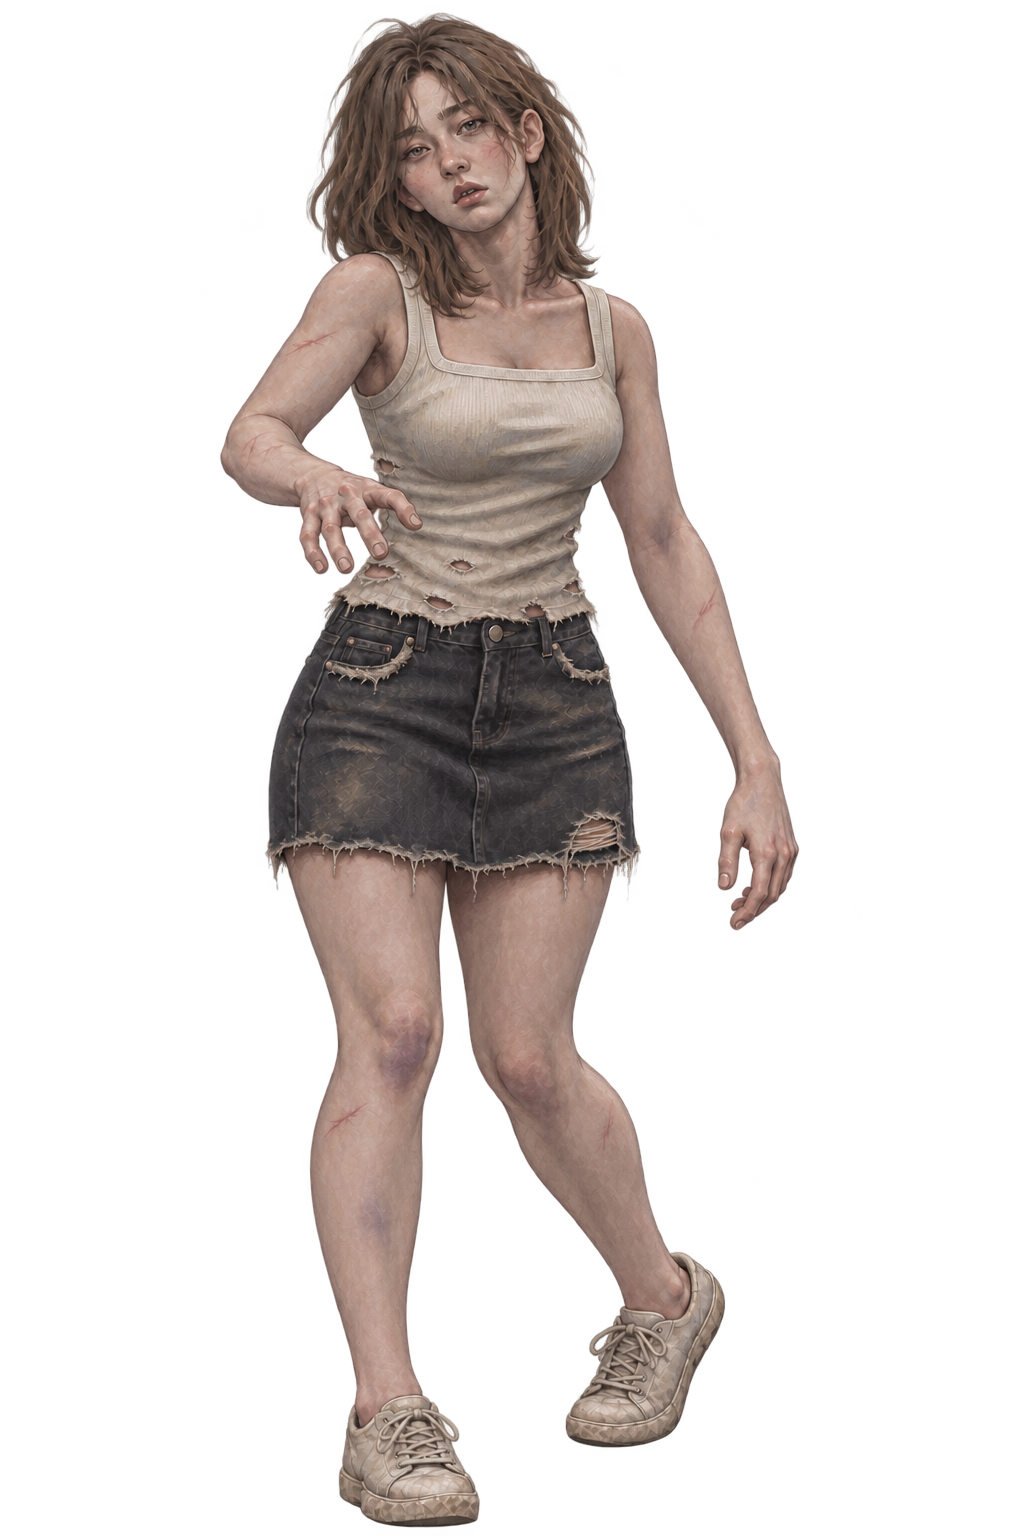
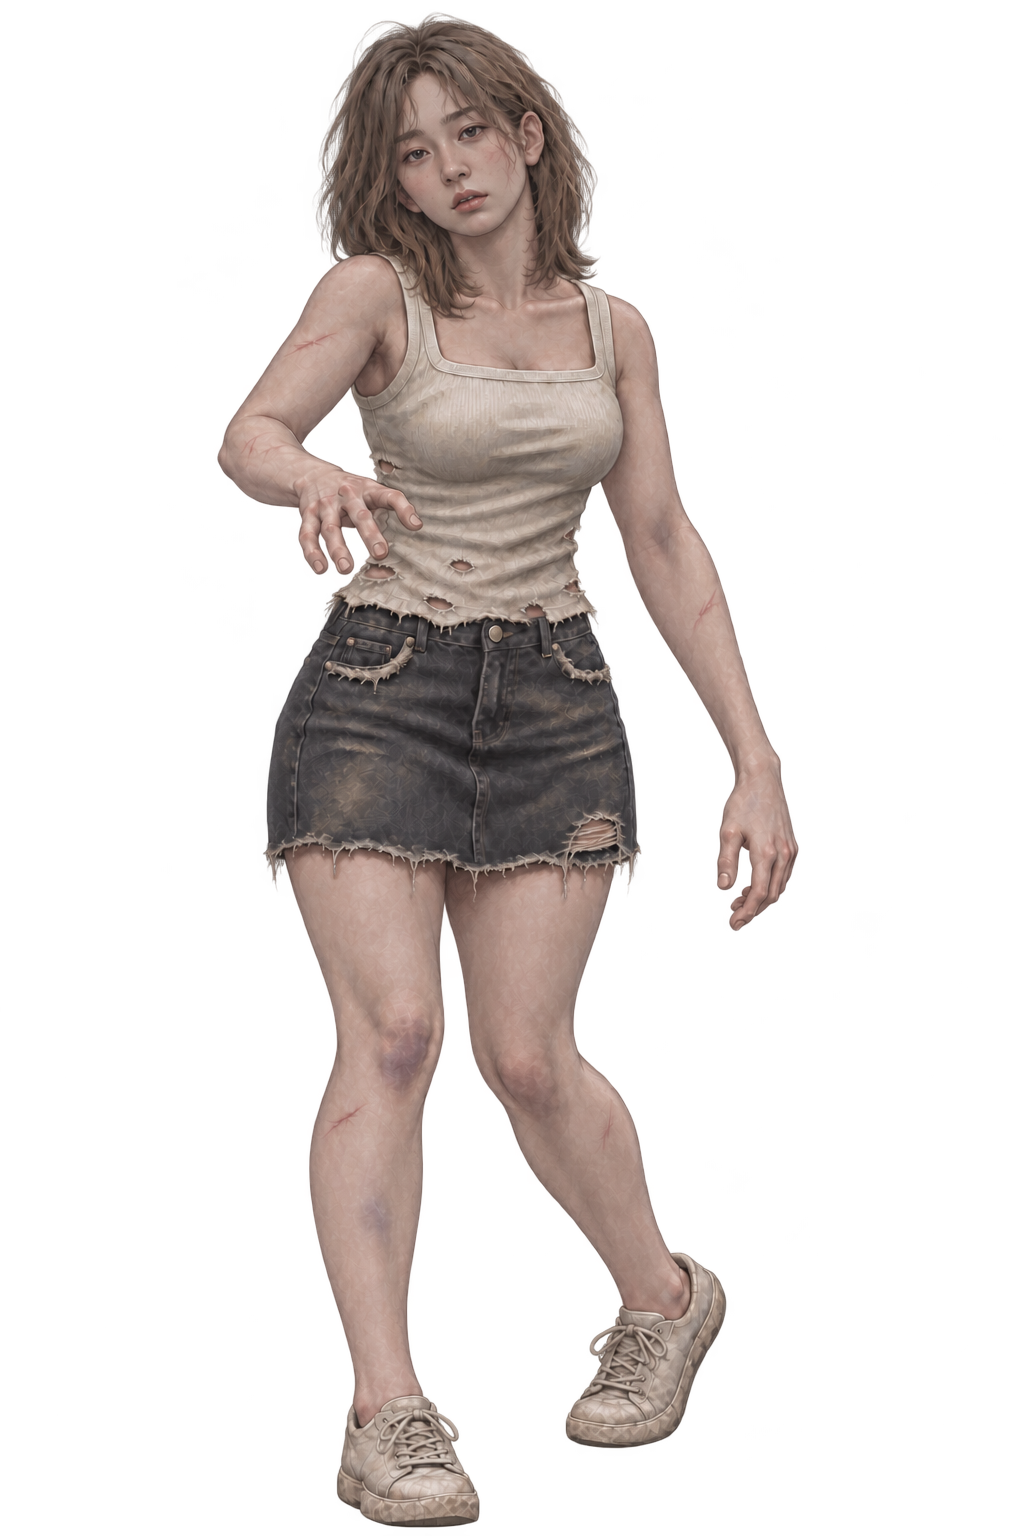
Soften female infected facial features for Korean college character

diff --git a/docs/ui-direction.md b/docs/ui-direction.md
@@ -610,3 +610,5 @@ NPC의 피로·부담·대화 여유는 숫자 게이지나 속마음 설명 대
 
 
 여성 배회형의 질감 방향을 수정했다. 사용자는 지나치게 매끈하고 촘촘한 재질 표현과, 그 대안으로 제시한 강한 셀 명암/애니메이션 표현 모두를 원하지 않았다. 최신 원화는 현실적인 얼굴·관절·체중감과 부드러운 명암을 갖춘 반실사 방향으로 갱신했다. 굵은 검은 외곽선과 평면적인 셀 음영은 줄이고, 선택적인 경계와 절제된 회화적 질감을 사용한다. 의상·체형·포즈는 최신 디자인을 이어간다. 이는 원화의 표현 방향에 관한 기록이며 실제 수작업 제작을 주장하지 않는다. 남성 원화와 게임 데이터는 이번 수정 대상이 아니다.
+
+여성 배회형의 얼굴은 한국인 성인 대학생 이미지로 다듬었다. 부드러운 얼굴 윤곽과 자연스러운 코, 은은한 속쌍꺼풀을 사용하고 눈 주변·콧대·턱의 강한 명암을 낮춘다. 의상과 체형, 전신 포즈는 유지한다. 특정 인종 전체의 얼굴을 정형화하기 위한 기준이 아닌 해당 캐릭터의 개별 디자인이다.
